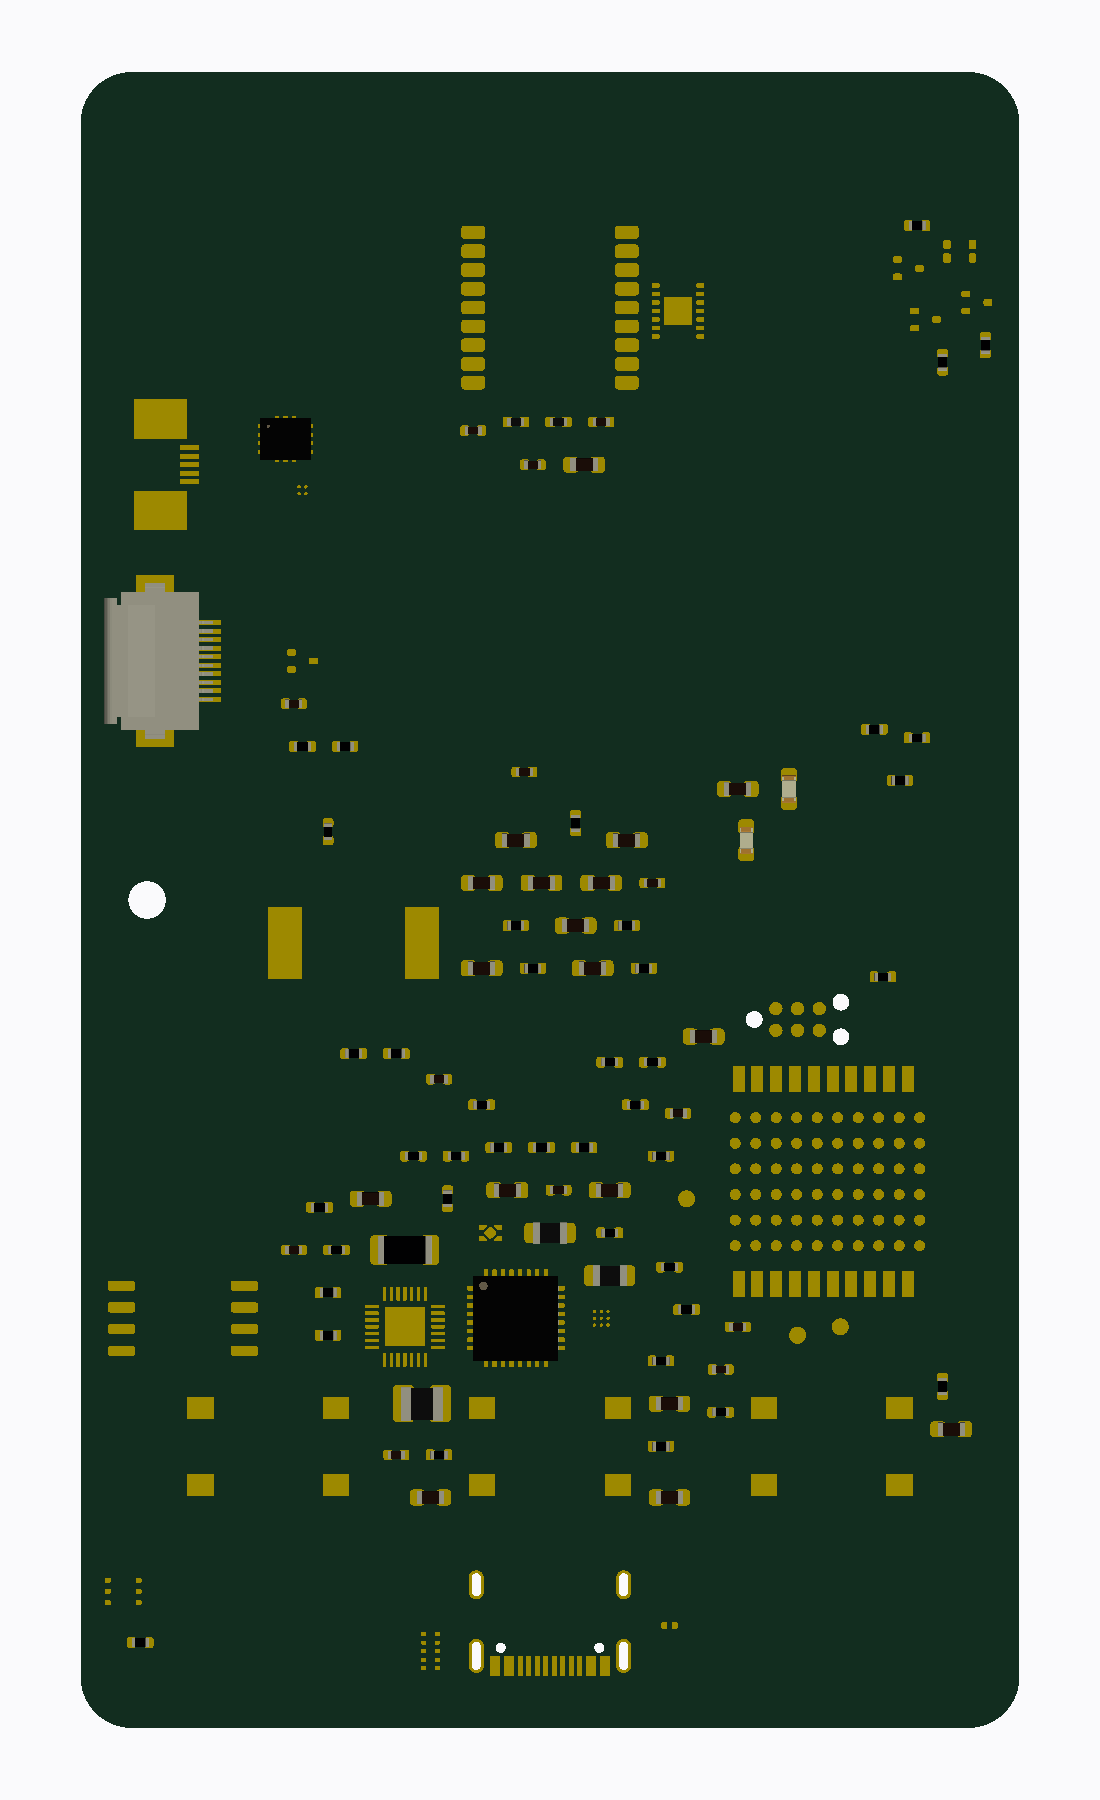
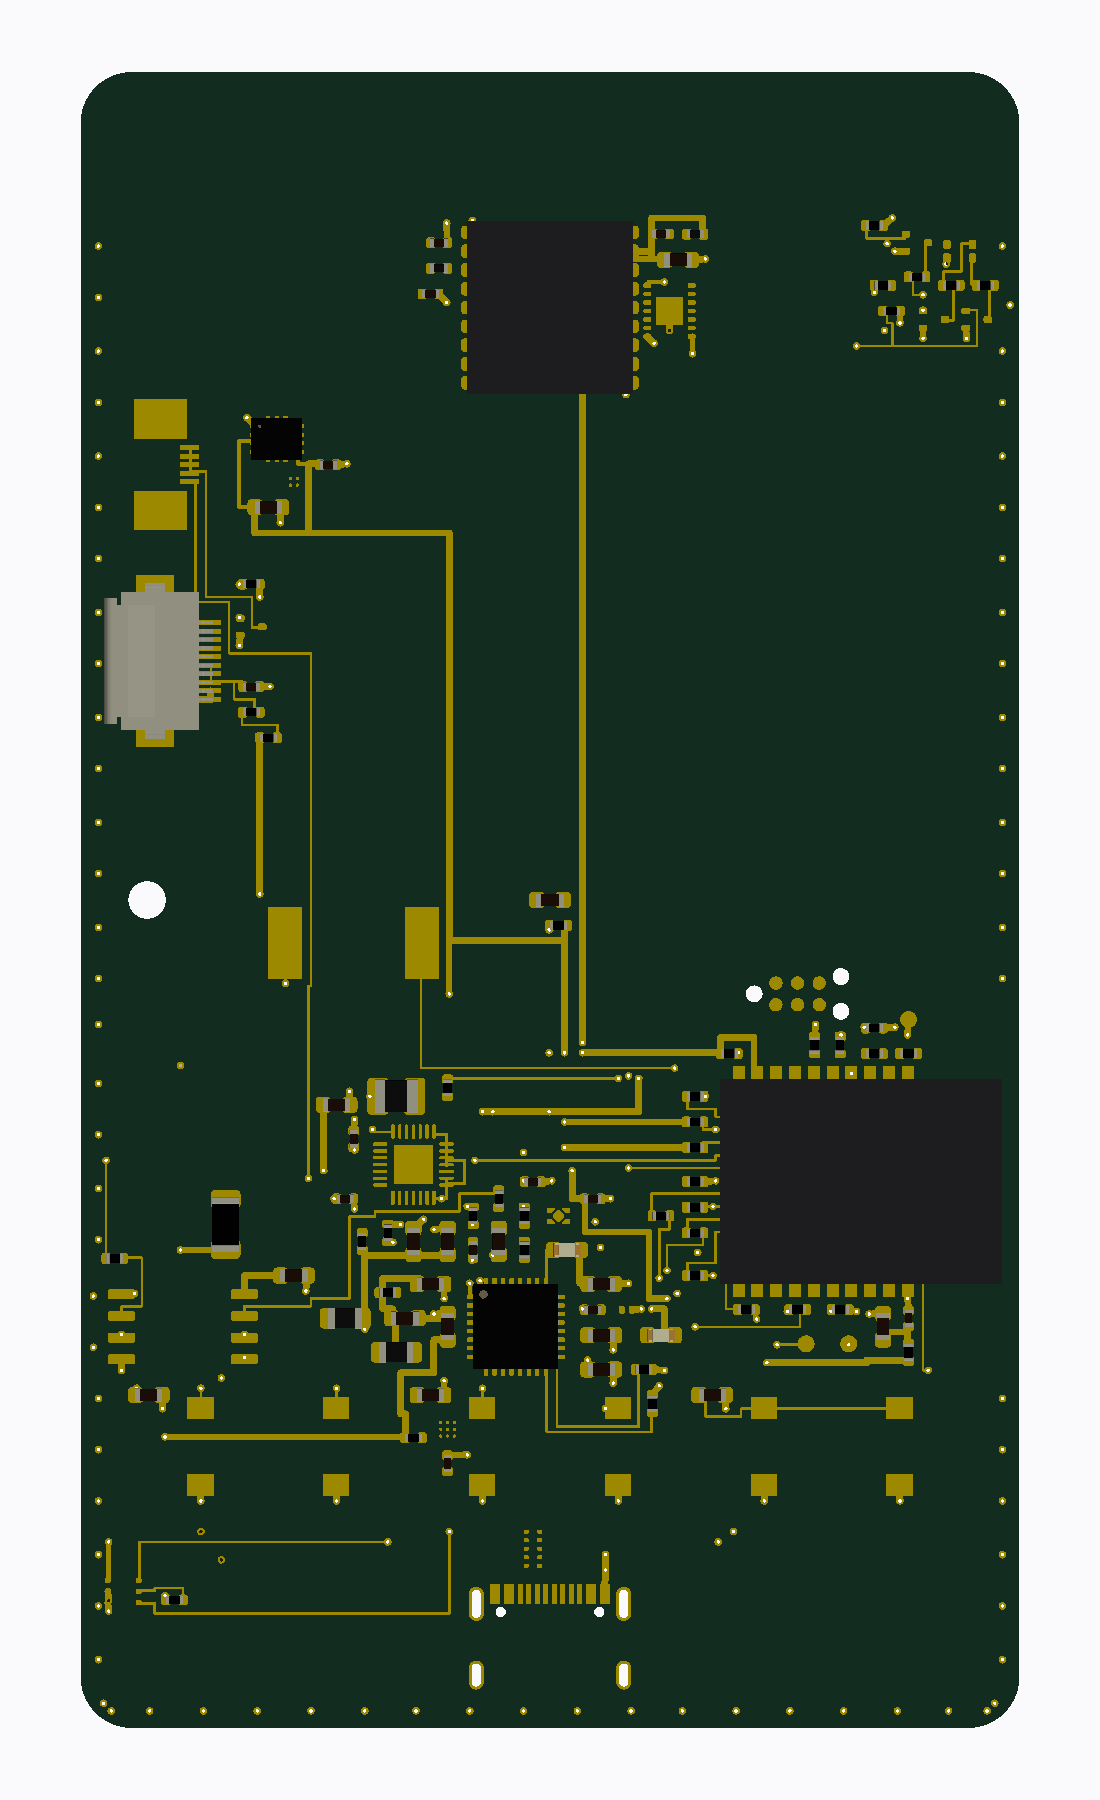
feat(hardware): give the generated footprints a body, at the right size
The ten parts drawn here - the radio module, the GNSS receiver, the level
translator, the sensors - had no 3D model, so the board showed them as bare
pads and there was no way to look at it and see whether anything collides.
Each one now gets a box of its package outline and height, from CORPO: as
VRML in 3d/ for KiCad's own viewer, and drawn again by the project's
renderer, because KiCad's GLB export reads only STEP.

The boxes were 2.54 times too big. KiCad reads a VRML model in units of a
tenth of an inch, not millimetres - checked against the library's own
R_0402_1005Metric.wrl, where a part 1.0 x 0.5 mm has its corners at +-0.197
and +-0.098 - so the 16.5 mm module was drawn 41.9 mm long, over most of
the board.

diff --git a/hardware_gnssbike/cad/footprints.py b/hardware_gnssbike/cad/footprints.py
@@ -123,6 +123,57 @@ def _uid(*p):
     return f"{h[0:8]}-{h[8:12]}-4{h[13:16]}-8{h[17:20]}-{h[20:32]}"
 
 
+# Body height of each generated footprint, in mm, from its datasheet. It is
+# what turns the board's 3D view from a bare set of pads into something you
+# can look at, and it is also the number the case has to clear.
+CORPO: dict[str, tuple[float, float, float]] = {
+    # nome do footprint -> largura, altura em planta, altura do corpo (mm)
+    "gnssbike:MinewSemi_ME54BS13_16.5x12mm": (12.00, 16.50, 2.40),
+    "gnssbike:u-blox_MAX-F10S_9.7x10.1mm": (9.70, 10.10, 2.40),
+    "gnssbike:MAX17262_WLP-9_1.4x1.4mm_P0.4mm": (1.40, 1.40, 0.50),
+    "gnssbike:BMP585_LGA-8_3.25x3.25mm": (3.25, 3.25, 1.96),
+    "gnssbike:MMC5633_WLP-4_0.85x0.85mm": (0.85, 0.85, 0.40),
+    "gnssbike:OPT3001_USON-6_2x2mm_P0.65mm": (2.00, 2.00, 0.65),
+    "gnssbike:ESD761_X1SON-2_1x0.6mm": (1.00, 0.60, 0.45),
+    "gnssbike:TPD4E05U06_USON-10_1x2.5mm_P0.5mm": (1.00, 2.50, 0.55),
+    "gnssbike:TXU0204_WQFN-14_3x2.5mm_P0.5mm": (3.00, 2.50, 0.80),
+    "gnssbike:LED_RGB_APTF1616_1.6x1.6mm": (1.60, 1.60, 0.70),
+}
+
+
+# KiCad reads a VRML model in units of a tenth of an inch, not in
+# millimetres, and multiplies by this to place it. Checked, not assumed:
+# R_0402_1005Metric.wrl, a part 1.0 x 0.5 mm, has its corners at +-0.197 and
+# +-0.098, which is 1.0/2.54 and 0.5/2.54. Written in millimetres with a
+# scale of 1, every one of these boxes came out 2.54 times too big in the 3D
+# viewer - a 16.5 mm module drawn 41.9 mm long, over most of the board.
+VRML_POR_MM = 1.0 / 25.4 * 10.0
+
+
+def wrl_caixa(caminho, w: float, h: float, alt: float, cor=(0.13, 0.13, 0.14)):
+    """A plain box in VRML, so KiCad's 3D viewer has a body to show.
+
+    KiCad's GLB and STEP exports read only STEP models, so this box shows in
+    the 3D viewer and not in an exported GLB; the project's own renderer draws
+    the same box from the footprint, which is why both exist.
+    """
+    e = VRML_POR_MM
+    hw, hh, alt = w / 2.0 * e, h / 2.0 * e, alt * e
+    pts = [(-hw, -hh, 0), (hw, -hh, 0), (hw, hh, 0), (-hw, hh, 0),
+           (-hw, -hh, alt), (hw, -hh, alt), (hw, hh, alt), (-hw, hh, alt)]
+    faces = [(0, 3, 2, 1), (4, 5, 6, 7), (0, 1, 5, 4),
+             (1, 2, 6, 5), (2, 3, 7, 6), (3, 0, 4, 7)]
+    caminho.write_text(
+        "#VRML V2.0 utf8\n# caixa do encapsulamento, nao o modelo do fabricante\n"
+        "Shape {\n  appearance Appearance { material Material { diffuseColor "
+        f"{cor[0]} {cor[1]} {cor[2]} }} }}\n"
+        "  geometry IndexedFaceSet {\n    coord Coordinate { point [\n"
+        + ",\n".join(f"      {x:.4f} {y:.4f} {z:.4f}" for x, y, z in pts)
+        + " ] }\n    coordIndex [\n"
+        + ",\n".join("      " + " ".join(str(i) for i in f) + " -1" for f in faces)
+        + " ]\n  }\n}\n", encoding="utf-8", newline="\n")
+
+
 def _corpo(nome, w, h, pads, descr):
     """Wrap pads in a footprint with a courtyard and a fab outline."""
     hw, hh = w / 2.0, h / 2.0
@@ -235,6 +286,35 @@ def _gerar():
 
 _gerar()
 
+
+def _com_modelo() -> None:
+    """Give every generated footprint a body, and reference it.
+
+    The box is the package outline of CORPO, raised to the height of the part.
+    It goes into 3d/ as VRML, which is what KiCad's 3D viewer reads; the
+    project's own renderer draws the same box from the same table, because
+    KiCad's GLB and STEP exports read only STEP models.
+    """
+    import pathlib as _pl
+
+    pasta = _pl.Path(__file__).resolve().parent / "3d"
+    pasta.mkdir(exist_ok=True)
+    for nome, (w, h, alt) in CORPO.items():
+        if nome not in GERADOS:
+            continue
+        base = nome.split(":", 1)[1]
+        wrl_caixa(pasta / (base + ".wrl"), w, h, alt)
+        modelo = (
+            '\t(model "${KIPRJMOD}/3d/' + base + '.wrl"\n'
+            '\t\t(offset (xyz 0 0 0))\n'
+            '\t\t(scale (xyz 1 1 1))\n'
+            '\t\t(rotate (xyz 0 0 0))\n'
+            '\t)\n')
+        texto = GERADOS[nome]
+        GERADOS[nome] = texto[:texto.rindex(")")] + modelo + ")\n"
+
+
+
 # the generated ones, assigned
 _fp("U102", "gnssbike:MAX17262_WLP-9_1.4x1.4mm_P0.4mm", "GERADO", "")
 _fp("U504", "gnssbike:MMC5633_WLP-4_0.85x0.85mm", "GERADO", "")
@@ -304,6 +384,9 @@ def me54bs13() -> str:
 GERADOS["gnssbike:MinewSemi_ME54BS13_16.5x12mm"] = me54bs13()
 _fp("U201", "gnssbike:MinewSemi_ME54BS13_16.5x12mm", "GERADO",
     "modulo de radio; a Minew nao publica land pattern")
+
+# every generated footprint gets its body last, once they all exist
+_com_modelo()
 
 
 def resumo() -> str:

diff --git a/hardware_gnssbike/cad/make_3d.py b/hardware_gnssbike/cad/make_3d.py
@@ -208,6 +208,54 @@ def render(tris: np.ndarray, cols: np.ndarray, largura: int, altura: int,
     return Image.fromarray(img.astype(np.uint8))
 
 
+def caixas_das_pecas() -> tuple[np.ndarray, np.ndarray]:
+    """Bodies for the parts whose footprint was generated here.
+
+    KiCad's GLB carries only the STEP models of the library footprints, so the
+    ten parts drawn in footprints.py - the radio module, the GNSS receiver,
+    the level translator, the sensors - would appear as bare pads. Their
+    package outline and height are in footprints.CORPO, and the box is built
+    here at the position, rotation and face the board gives them.
+    """
+    sys.path.insert(0, str(HERE))
+    import footprints as FPS
+    import fp_load
+    import make_pcb as MP
+
+    arv = fp_load.parse((HERE / "gnssbike.kicad_pcb").read_text(encoding="utf-8"))
+    tris: list[np.ndarray] = []
+    cols: list[np.ndarray] = []
+    for f in fp_load.kids(arv, "footprint"):
+        nome = f[1]
+        if nome not in FPS.CORPO:
+            continue
+        w, h, alt = FPS.CORPO[nome]
+        at = fp_load.kid(f, "at")
+        x, y = float(at[1]), float(at[2])
+        ang = math.radians(float(at[3])) if len(at) > 3 else 0.0
+        atras = fp_load.kid(f, "layer")[1] == "B.Cu"
+        z0 = -0.8 if atras else 0.0      # the board is 0.8 mm thick
+        z1 = z0 - alt if atras else alt
+        ca, sa = math.cos(ang), math.sin(ang)
+        cantos = []
+        for dx, dy in ((-w / 2, -h / 2), (w / 2, -h / 2), (w / 2, h / 2), (-w / 2, h / 2)):
+            cantos.append((x + dx * ca + dy * sa, y - dx * sa + dy * ca))
+        base = [(px, py, z0) for px, py in cantos]
+        topo = [(px, py, z1) for px, py in cantos]
+        faces = [(base[0], base[3], base[2]), (base[0], base[2], base[1]),
+                 (topo[0], topo[1], topo[2]), (topo[0], topo[2], topo[3])]
+        for k in range(4):
+            a, b = k, (k + 1) % 4
+            faces.append((base[a], base[b], topo[b]))
+            faces.append((base[a], topo[b], topo[a]))
+        for t in faces:
+            tris.append(np.array(t, dtype=np.float64))
+            cols.append(np.array([0.13, 0.13, 0.14]))
+    if not tris:
+        return np.zeros((0, 3, 3)), np.zeros((0, 3))
+    return np.array(tris), np.array(cols)
+
+
 def main() -> int:
     glb = HERE / "gnssbike.glb"
     if not glb.exists():
@@ -215,7 +263,16 @@ def main() -> int:
         return 1
     j, bina = ler_glb(glb)
     tris, cols = triangulos(j, bina)
-    print(f"{len(tris)} triangulos, {len(j.get('meshes', []))} malhas")
+    extra_t, extra_c = caixas_das_pecas()
+    if len(extra_t):
+        # the boxes are in millimetres with y growing downward, as the board
+        # file has them; the GLB is in metres with y already up
+        extra_t = np.stack([extra_t[..., 0], -extra_t[..., 1], extra_t[..., 2]],
+                           axis=-1) / 1000.0
+        tris = np.concatenate([tris, extra_t])
+        cols = np.concatenate([cols, extra_c])
+    print(f"{len(tris)} triangulos, {len(j.get('meshes', []))} malhas, "
+          f"{len(extra_t) // 12} corpos desenhados aqui")
 
     for nome, az, el, w, h in (("gnssbike-3d-frente.png", 0.0, 90.0, 1100, 1800),
                                ("gnssbike-3d-angulo.png", 28.0, 38.0, 1600, 1300),
